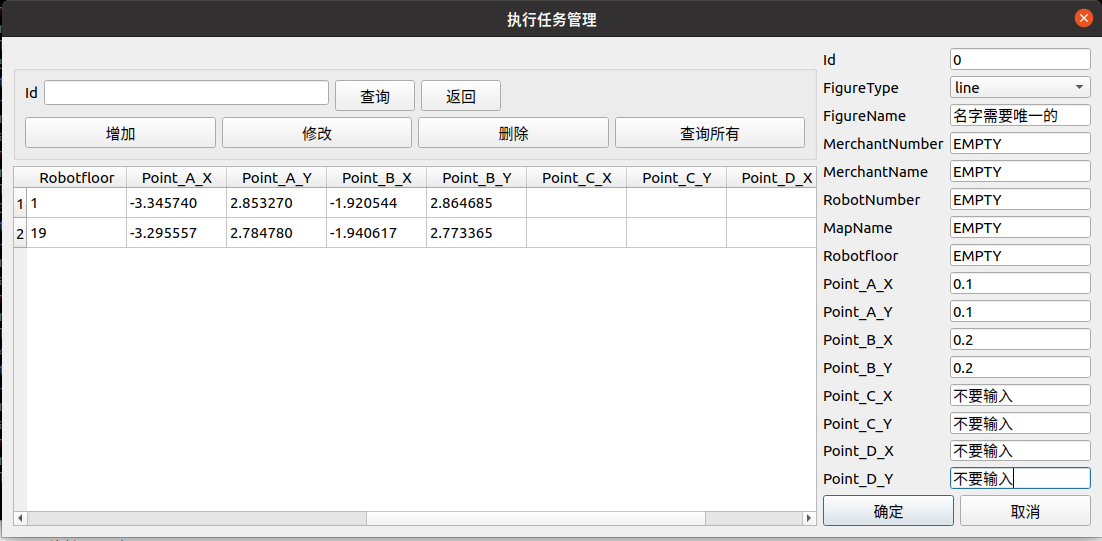
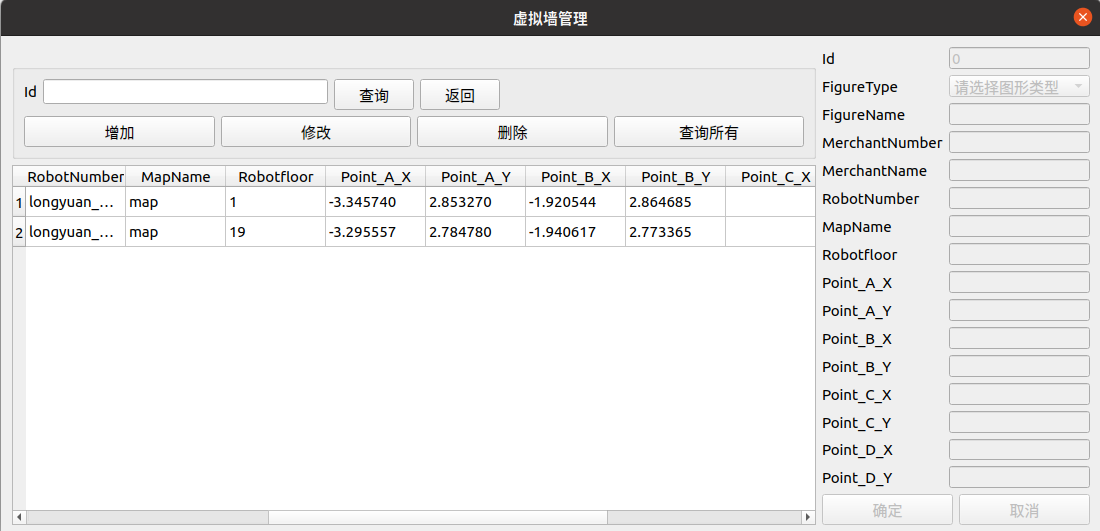
1

diff --git a/src/slamproject/src/currencyChassis/currencyChassis_KSDemoDlgTABLE_COSTMAPLAYER.cpp b/src/slamproject/src/currencyChassis/currencyChassis_KSDemoDlgTABLE_COSTMAPLAYER.cpp
@@ -87,7 +87,7 @@ SlamtecKSDemoDlgCostMap::SlamtecKSDemoDlgCostMap(QString databaseName, QString d
     UiInit();
     /*************对话框窗体初始化***************/
     setFixedSize(1100, 500);
-    setWindowTitle(QStringLiteral("执行任务管理"));
+    setWindowTitle(QStringLiteral("虚拟墙管理"));
 }
 /**************************************************************************
 * 函数名称：UiInit
